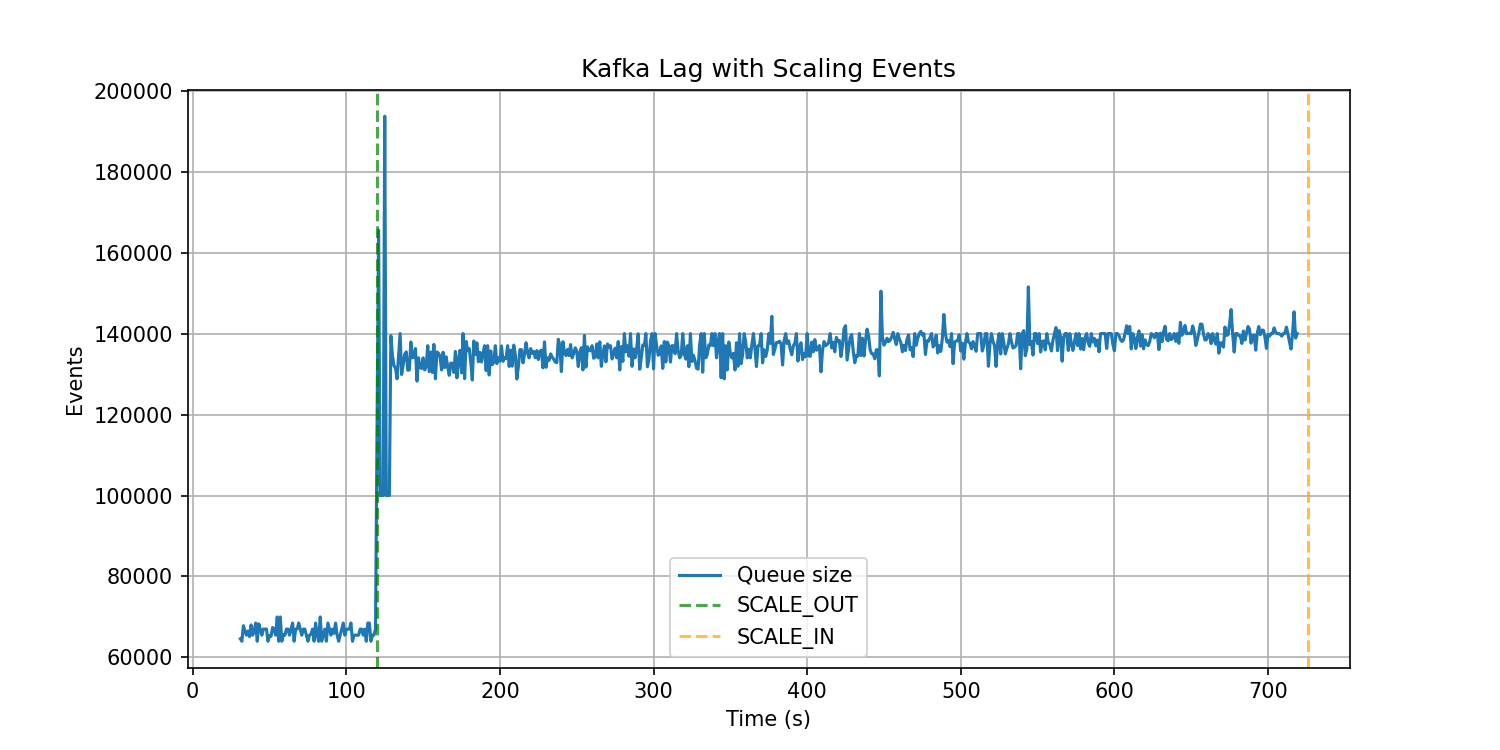
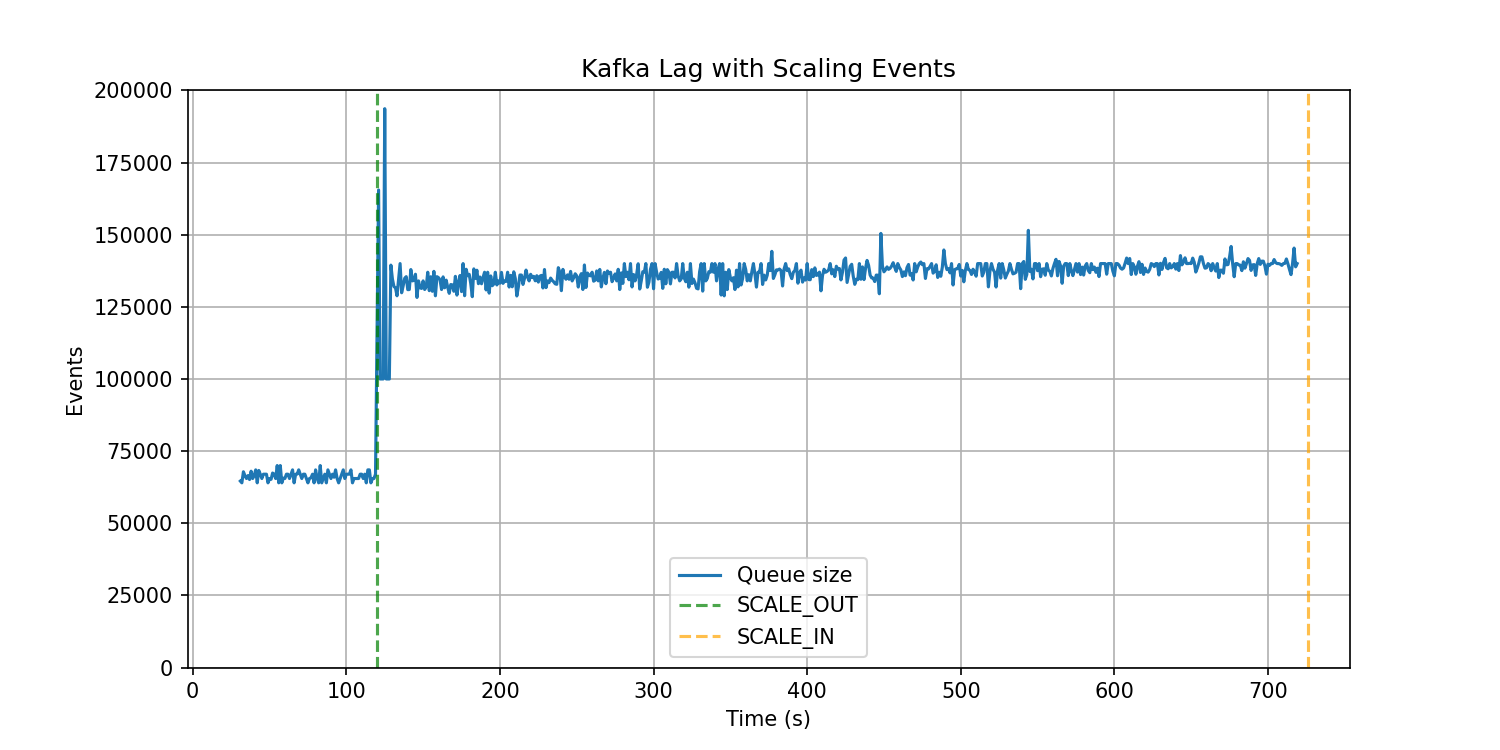
Fix scaling_events Y-axis: start at 0 for queue size background
plt.ylim(bottom=0) was being called before plt.plot(), which locked the
axis at [0,1] and made the queue line invisible. Move it after the data
is plotted so auto-scale runs first.

diff --git a/scripts/cloudlab/plot_metrics.py b/scripts/cloudlab/plot_metrics.py
@@ -283,6 +283,8 @@ def plot_scaling_events(df: pd.DataFrame, work_dir: str):
         return
     valid = df[y_col] >= 0
     plt.plot(df.loc[valid, "rel_s"], df.loc[valid, y_col], label=y_label)
+    if y_col in ("queueSize", "avgInput"):
+        plt.ylim(bottom=0)
 
     # Overlay scaling events
     for _, row in dec.iterrows():
